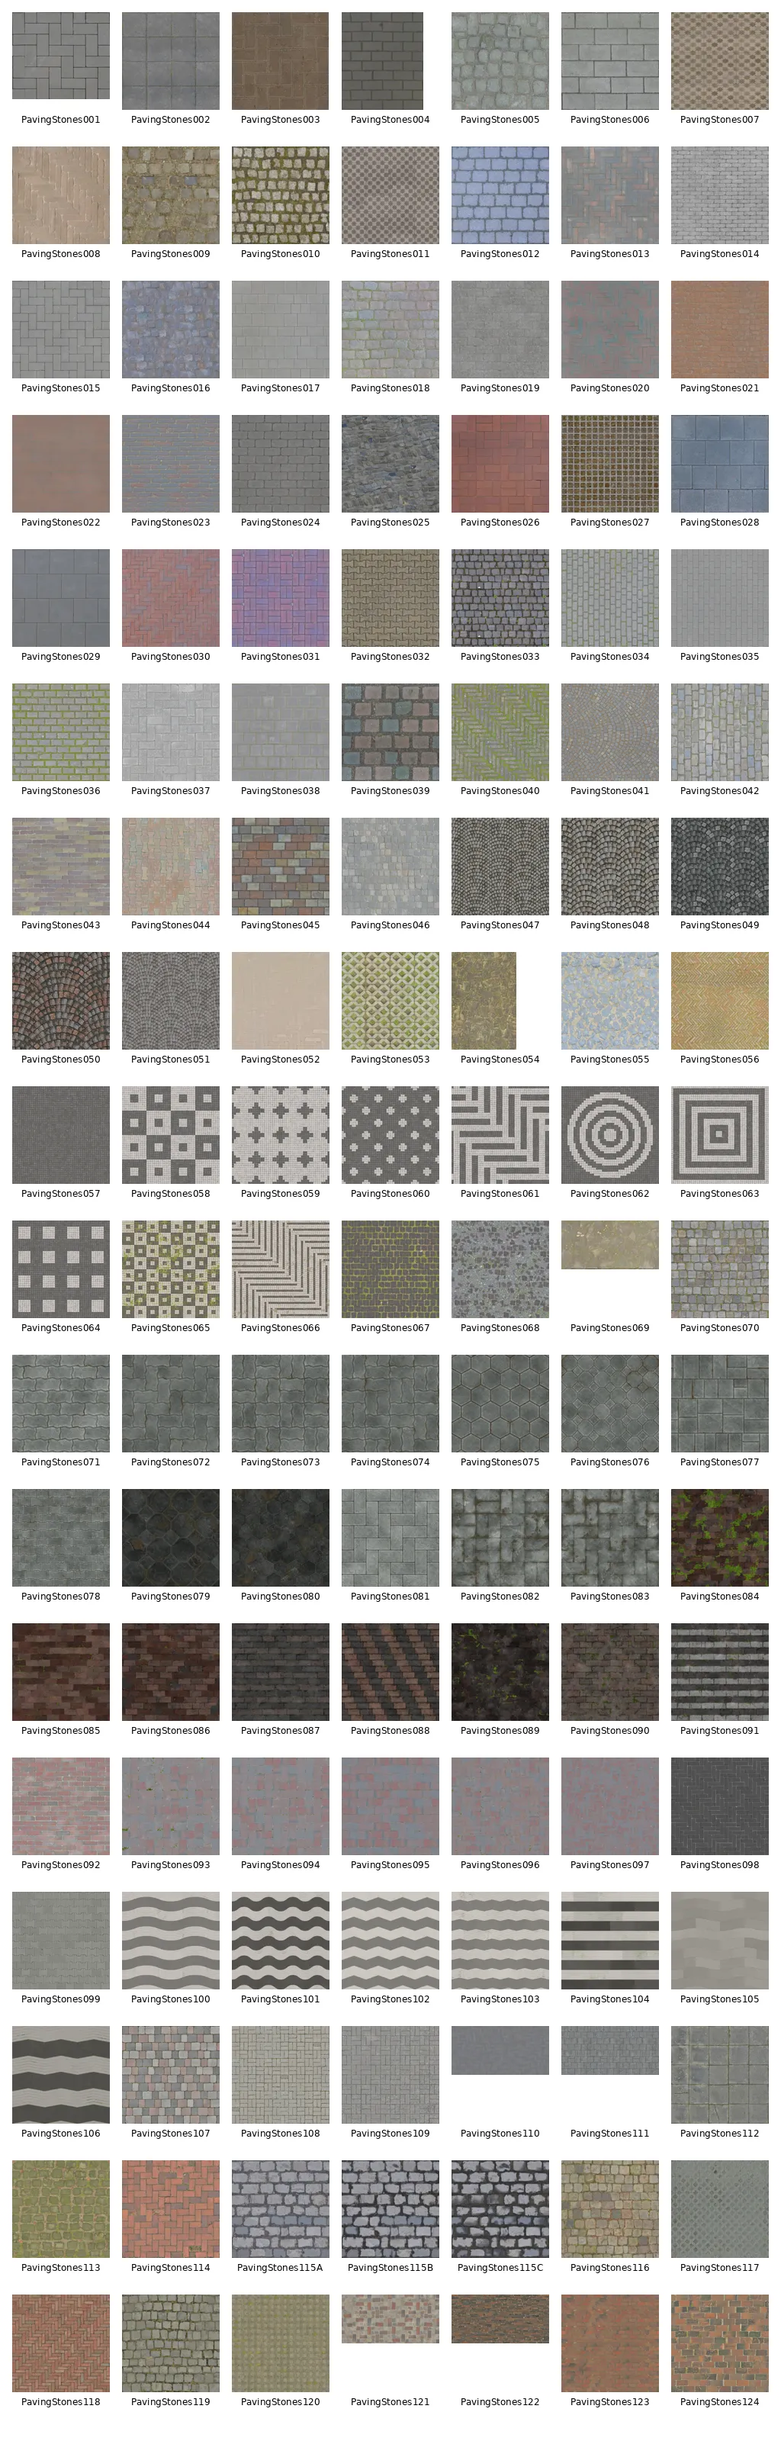
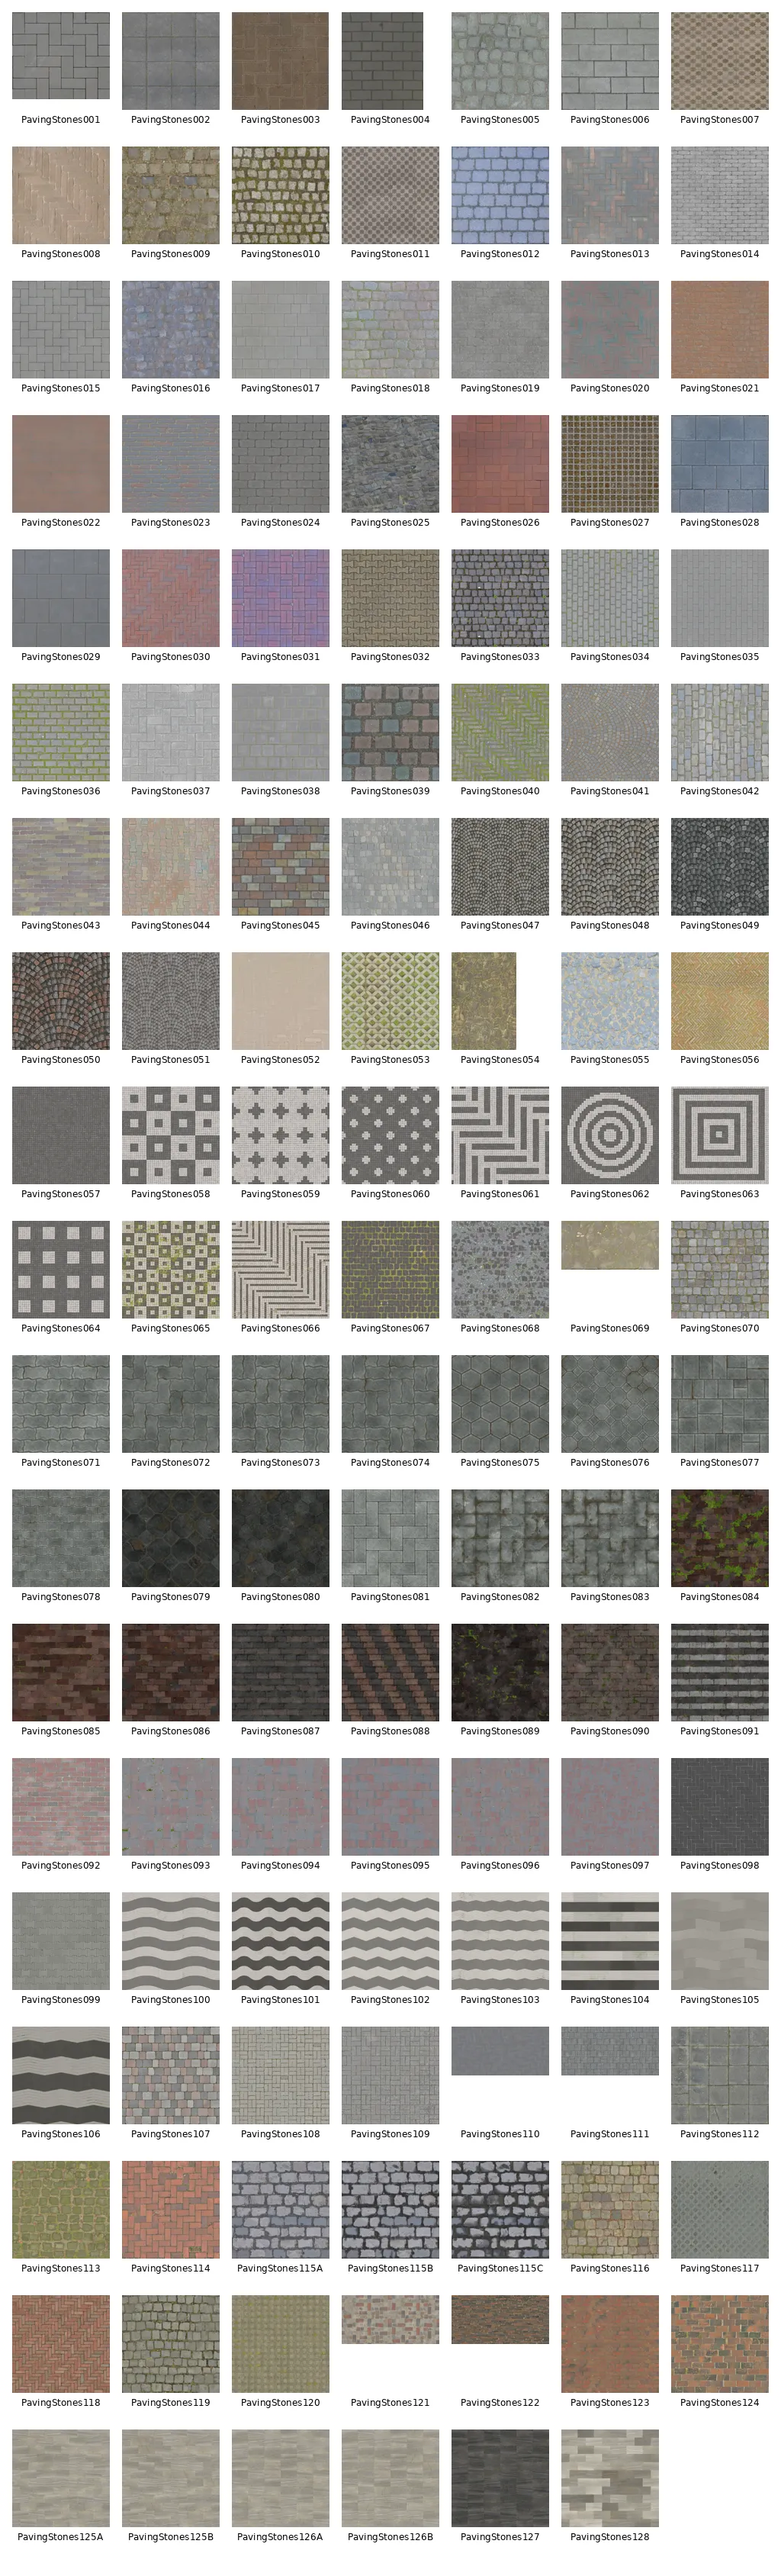
version: 1.2

diff --git a/build.py b/build.py
@@ -14,7 +14,7 @@ from PIL import Image, ImageOps
 from excluded_categories import EXCLUDED_CATEGORIES
 from make_preview import make_preview
 
-VERSION = "1.1"
+VERSION = "1.2"
 
 SIZES = (1024, 512, 256)
 TOTAL_LIMIT = None
@@ -100,6 +100,7 @@ def fetch_catalog_data(options):
     """
     expire_after = 0 if options.no_json_cache else -1
     session = requests_cache.CachedSession("requests_cache", expire_after=expire_after)
+    session.remove_expired_responses()
     base_params = {
         "type": "Material",
         "include": "displayData,dimensionsData,downloadData",

diff --git a/README.md b/README.md
@@ -5,19 +5,19 @@ The texture are resized to 3 sizes, so you can choose quality.
 
 3 qualities available: 256, 512 and 1024 pixels width.
 
-Current version: 1.1<br>
-Total textures: 1120
+Current version: 1.2<br>
+Total textures: 1126
 
 ## Install
 
 Just download the .sh3t file you want and use the texture library import feature from Sweethome3D from "Furniture" menu.
 
 
-* [ambientcg_1024.sh3t](https://github.com/fabien-michel/sweethome3d-textures-ambientcg/raw/v1.1/ambientcg_1024.sh3t) - 172.6 MB
+* [ambientcg_1024.sh3t](https://github.com/fabien-michel/sweethome3d-textures-ambientcg/raw/v1.2/ambientcg_1024.sh3t) - 173.5 MB
 
-* [ambientcg_512.sh3t](https://github.com/fabien-michel/sweethome3d-textures-ambientcg/raw/v1.1/ambientcg_512.sh3t) - 45.3 MB
+* [ambientcg_512.sh3t](https://github.com/fabien-michel/sweethome3d-textures-ambientcg/raw/v1.2/ambientcg_512.sh3t) - 45.5 MB
 
-* [ambientcg_256.sh3t](https://github.com/fabien-michel/sweethome3d-textures-ambientcg/raw/v1.1/ambientcg_256.sh3t) - 12.2 MB
+* [ambientcg_256.sh3t](https://github.com/fabien-michel/sweethome3d-textures-ambientcg/raw/v1.2/ambientcg_256.sh3t) - 12.3 MB
 
 
 ## Missing dimensions
@@ -58,205 +58,205 @@ The current code and content follow the same licence.
 
 ### Asphalt
 <picture>
-  <img alt="Preview of Asphalt" src="https://raw.githubusercontent.com/fabien-michel/sweethome3d-textures-ambientcg/v1.1/previews/Asphalt.webp">
+  <img alt="Preview of Asphalt" src="https://raw.githubusercontent.com/fabien-michel/sweethome3d-textures-ambientcg/v1.2/previews/Asphalt.webp">
 </picture>
 
 ### Bark
 <picture>
-  <img alt="Preview of Bark" src="https://raw.githubusercontent.com/fabien-michel/sweethome3d-textures-ambientcg/v1.1/previews/Bark.webp">
+  <img alt="Preview of Bark" src="https://raw.githubusercontent.com/fabien-michel/sweethome3d-textures-ambientcg/v1.2/previews/Bark.webp">
 </picture>
 
 ### Bricks
 <picture>
-  <img alt="Preview of Bricks" src="https://raw.githubusercontent.com/fabien-michel/sweethome3d-textures-ambientcg/v1.1/previews/Bricks.webp">
+  <img alt="Preview of Bricks" src="https://raw.githubusercontent.com/fabien-michel/sweethome3d-textures-ambientcg/v1.2/previews/Bricks.webp">
 </picture>
 
 ### Cardboard
 <picture>
-  <img alt="Preview of Cardboard" src="https://raw.githubusercontent.com/fabien-michel/sweethome3d-textures-ambientcg/v1.1/previews/Cardboard.webp">
+  <img alt="Preview of Cardboard" src="https://raw.githubusercontent.com/fabien-michel/sweethome3d-textures-ambientcg/v1.2/previews/Cardboard.webp">
 </picture>
 
 ### Carpet
 <picture>
-  <img alt="Preview of Carpet" src="https://raw.githubusercontent.com/fabien-michel/sweethome3d-textures-ambientcg/v1.1/previews/Carpet.webp">
+  <img alt="Preview of Carpet" src="https://raw.githubusercontent.com/fabien-michel/sweethome3d-textures-ambientcg/v1.2/previews/Carpet.webp">
 </picture>
 
 ### Chainmail
 <picture>
-  <img alt="Preview of Chainmail" src="https://raw.githubusercontent.com/fabien-michel/sweethome3d-textures-ambientcg/v1.1/previews/Chainmail.webp">
+  <img alt="Preview of Chainmail" src="https://raw.githubusercontent.com/fabien-michel/sweethome3d-textures-ambientcg/v1.2/previews/Chainmail.webp">
 </picture>
 
 ### Chipboard
 <picture>
-  <img alt="Preview of Chipboard" src="https://raw.githubusercontent.com/fabien-michel/sweethome3d-textures-ambientcg/v1.1/previews/Chipboard.webp">
+  <img alt="Preview of Chipboard" src="https://raw.githubusercontent.com/fabien-michel/sweethome3d-textures-ambientcg/v1.2/previews/Chipboard.webp">
 </picture>
 
 ### Clay
 <picture>
-  <img alt="Preview of Clay" src="https://raw.githubusercontent.com/fabien-michel/sweethome3d-textures-ambientcg/v1.1/previews/Clay.webp">
+  <img alt="Preview of Clay" src="https://raw.githubusercontent.com/fabien-michel/sweethome3d-textures-ambientcg/v1.2/previews/Clay.webp">
 </picture>
 
 ### Concrete
 <picture>
-  <img alt="Preview of Concrete" src="https://raw.githubusercontent.com/fabien-michel/sweethome3d-textures-ambientcg/v1.1/previews/Concrete.webp">
+  <img alt="Preview of Concrete" src="https://raw.githubusercontent.com/fabien-michel/sweethome3d-textures-ambientcg/v1.2/previews/Concrete.webp">
 </picture>
 
 ### Cork
 <picture>
-  <img alt="Preview of Cork" src="https://raw.githubusercontent.com/fabien-michel/sweethome3d-textures-ambientcg/v1.1/previews/Cork.webp">
+  <img alt="Preview of Cork" src="https://raw.githubusercontent.com/fabien-michel/sweethome3d-textures-ambientcg/v1.2/previews/Cork.webp">
 </picture>
 
 ### CorrugatedSteel
 <picture>
-  <img alt="Preview of CorrugatedSteel" src="https://raw.githubusercontent.com/fabien-michel/sweethome3d-textures-ambientcg/v1.1/previews/CorrugatedSteel.webp">
+  <img alt="Preview of CorrugatedSteel" src="https://raw.githubusercontent.com/fabien-michel/sweethome3d-textures-ambientcg/v1.2/previews/CorrugatedSteel.webp">
 </picture>
 
 ### DiamondPlate
 <picture>
-  <img alt="Preview of DiamondPlate" src="https://raw.githubusercontent.com/fabien-michel/sweethome3d-textures-ambientcg/v1.1/previews/DiamondPlate.webp">
+  <img alt="Preview of DiamondPlate" src="https://raw.githubusercontent.com/fabien-michel/sweethome3d-textures-ambientcg/v1.2/previews/DiamondPlate.webp">
 </picture>
 
 ### Fabric
 <picture>
-  <img alt="Preview of Fabric" src="https://raw.githubusercontent.com/fabien-michel/sweethome3d-textures-ambientcg/v1.1/previews/Fabric.webp">
+  <img alt="Preview of Fabric" src="https://raw.githubusercontent.com/fabien-michel/sweethome3d-textures-ambientcg/v1.2/previews/Fabric.webp">
 </picture>
 
 ### GlazedTerracotta
 <picture>
-  <img alt="Preview of GlazedTerracotta" src="https://raw.githubusercontent.com/fabien-michel/sweethome3d-textures-ambientcg/v1.1/previews/GlazedTerracotta.webp">
+  <img alt="Preview of GlazedTerracotta" src="https://raw.githubusercontent.com/fabien-michel/sweethome3d-textures-ambientcg/v1.2/previews/GlazedTerracotta.webp">
 </picture>
 
 ### Grass
 <picture>
-  <img alt="Preview of Grass" src="https://raw.githubusercontent.com/fabien-michel/sweethome3d-textures-ambientcg/v1.1/previews/Grass.webp">
+  <img alt="Preview of Grass" src="https://raw.githubusercontent.com/fabien-michel/sweethome3d-textures-ambientcg/v1.2/previews/Grass.webp">
 </picture>
 
 ### Gravel
 <picture>
-  <img alt="Preview of Gravel" src="https://raw.githubusercontent.com/fabien-michel/sweethome3d-textures-ambientcg/v1.1/previews/Gravel.webp">
+  <img alt="Preview of Gravel" src="https://raw.githubusercontent.com/fabien-michel/sweethome3d-textures-ambientcg/v1.2/previews/Gravel.webp">
 </picture>
 
 ### Ground
 <picture>
-  <img alt="Preview of Ground" src="https://raw.githubusercontent.com/fabien-michel/sweethome3d-textures-ambientcg/v1.1/previews/Ground.webp">
+  <img alt="Preview of Ground" src="https://raw.githubusercontent.com/fabien-michel/sweethome3d-textures-ambientcg/v1.2/previews/Ground.webp">
 </picture>
 
 ### Marble
 <picture>
-  <img alt="Preview of Marble" src="https://raw.githubusercontent.com/fabien-michel/sweethome3d-textures-ambientcg/v1.1/previews/Marble.webp">
+  <img alt="Preview of Marble" src="https://raw.githubusercontent.com/fabien-michel/sweethome3d-textures-ambientcg/v1.2/previews/Marble.webp">
 </picture>
 
 ### Metal
 <picture>
-  <img alt="Preview of Metal" src="https://raw.githubusercontent.com/fabien-michel/sweethome3d-textures-ambientcg/v1.1/previews/Metal.webp">
+  <img alt="Preview of Metal" src="https://raw.githubusercontent.com/fabien-michel/sweethome3d-textures-ambientcg/v1.2/previews/Metal.webp">
 </picture>
 
 ### Moss
 <picture>
-  <img alt="Preview of Moss" src="https://raw.githubusercontent.com/fabien-michel/sweethome3d-textures-ambientcg/v1.1/previews/Moss.webp">
+  <img alt="Preview of Moss" src="https://raw.githubusercontent.com/fabien-michel/sweethome3d-textures-ambientcg/v1.2/previews/Moss.webp">
 </picture>
 
 ### OfficeCeiling
 <picture>
-  <img alt="Preview of OfficeCeiling" src="https://raw.githubusercontent.com/fabien-michel/sweethome3d-textures-ambientcg/v1.1/previews/OfficeCeiling.webp">
+  <img alt="Preview of OfficeCeiling" src="https://raw.githubusercontent.com/fabien-michel/sweethome3d-textures-ambientcg/v1.2/previews/OfficeCeiling.webp">
 </picture>
 
 ### Paint
 <picture>
-  <img alt="Preview of Paint" src="https://raw.githubusercontent.com/fabien-michel/sweethome3d-textures-ambientcg/v1.1/previews/Paint.webp">
+  <img alt="Preview of Paint" src="https://raw.githubusercontent.com/fabien-michel/sweethome3d-textures-ambientcg/v1.2/previews/Paint.webp">
 </picture>
 
 ### Paper
 <picture>
-  <img alt="Preview of Paper" src="https://raw.githubusercontent.com/fabien-michel/sweethome3d-textures-ambientcg/v1.1/previews/Paper.webp">
+  <img alt="Preview of Paper" src="https://raw.githubusercontent.com/fabien-michel/sweethome3d-textures-ambientcg/v1.2/previews/Paper.webp">
 </picture>
 
 ### PavingStones
 <picture>
-  <img alt="Preview of PavingStones" src="https://raw.githubusercontent.com/fabien-michel/sweethome3d-textures-ambientcg/v1.1/previews/PavingStones.webp">
+  <img alt="Preview of PavingStones" src="https://raw.githubusercontent.com/fabien-michel/sweethome3d-textures-ambientcg/v1.2/previews/PavingStones.webp">
 </picture>
 
 ### Planks
 <picture>
-  <img alt="Preview of Planks" src="https://raw.githubusercontent.com/fabien-michel/sweethome3d-textures-ambientcg/v1.1/previews/Planks.webp">
+  <img alt="Preview of Planks" src="https://raw.githubusercontent.com/fabien-michel/sweethome3d-textures-ambientcg/v1.2/previews/Planks.webp">
 </picture>
 
 ### Plaster
 <picture>
-  <img alt="Preview of Plaster" src="https://raw.githubusercontent.com/fabien-michel/sweethome3d-textures-ambientcg/v1.1/previews/Plaster.webp">
+  <img alt="Preview of Plaster" src="https://raw.githubusercontent.com/fabien-michel/sweethome3d-textures-ambientcg/v1.2/previews/Plaster.webp">
 </picture>
 
 ### Plastic
 <picture>
-  <img alt="Preview of Plastic" src="https://raw.githubusercontent.com/fabien-michel/sweethome3d-textures-ambientcg/v1.1/previews/Plastic.webp">
+  <img alt="Preview of Plastic" src="https://raw.githubusercontent.com/fabien-michel/sweethome3d-textures-ambientcg/v1.2/previews/Plastic.webp">
 </picture>
 
 ### Porcelain
 <picture>
-  <img alt="Preview of Porcelain" src="https://raw.githubusercontent.com/fabien-michel/sweethome3d-textures-ambientcg/v1.1/previews/Porcelain.webp">
+  <img alt="Preview of Porcelain" src="https://raw.githubusercontent.com/fabien-michel/sweethome3d-textures-ambientcg/v1.2/previews/Porcelain.webp">
 </picture>
 
 ### Road
 <picture>
-  <img alt="Preview of Road" src="https://raw.githubusercontent.com/fabien-michel/sweethome3d-textures-ambientcg/v1.1/previews/Road.webp">
+  <img alt="Preview of Road" src="https://raw.githubusercontent.com/fabien-michel/sweethome3d-textures-ambientcg/v1.2/previews/Road.webp">
 </picture>
 
 ### Rock
 <picture>
-  <img alt="Preview of Rock" src="https://raw.githubusercontent.com/fabien-michel/sweethome3d-textures-ambientcg/v1.1/previews/Rock.webp">
+  <img alt="Preview of Rock" src="https://raw.githubusercontent.com/fabien-michel/sweethome3d-textures-ambientcg/v1.2/previews/Rock.webp">
 </picture>
 
 ### Rocks
 <picture>
-  <img alt="Preview of Rocks" src="https://raw.githubusercontent.com/fabien-michel/sweethome3d-textures-ambientcg/v1.1/previews/Rocks.webp">
+  <img alt="Preview of Rocks" src="https://raw.githubusercontent.com/fabien-michel/sweethome3d-textures-ambientcg/v1.2/previews/Rocks.webp">
 </picture>
 
 ### RoofingTiles
 <picture>
-  <img alt="Preview of RoofingTiles" src="https://raw.githubusercontent.com/fabien-michel/sweethome3d-textures-ambientcg/v1.1/previews/RoofingTiles.webp">
+  <img alt="Preview of RoofingTiles" src="https://raw.githubusercontent.com/fabien-michel/sweethome3d-textures-ambientcg/v1.2/previews/RoofingTiles.webp">
 </picture>
 
 ### Rust
 <picture>
-  <img alt="Preview of Rust" src="https://raw.githubusercontent.com/fabien-michel/sweethome3d-textures-ambientcg/v1.1/previews/Rust.webp">
+  <img alt="Preview of Rust" src="https://raw.githubusercontent.com/fabien-michel/sweethome3d-textures-ambientcg/v1.2/previews/Rust.webp">
 </picture>
 
 ### Snow
 <picture>
-  <img alt="Preview of Snow" src="https://raw.githubusercontent.com/fabien-michel/sweethome3d-textures-ambientcg/v1.1/previews/Snow.webp">
+  <img alt="Preview of Snow" src="https://raw.githubusercontent.com/fabien-michel/sweethome3d-textures-ambientcg/v1.2/previews/Snow.webp">
 </picture>
 
 ### SolarPanel
 <picture>
-  <img alt="Preview of SolarPanel" src="https://raw.githubusercontent.com/fabien-michel/sweethome3d-textures-ambientcg/v1.1/previews/SolarPanel.webp">
+  <img alt="Preview of SolarPanel" src="https://raw.githubusercontent.com/fabien-michel/sweethome3d-textures-ambientcg/v1.2/previews/SolarPanel.webp">
 </picture>
 
 ### Terrazzo
 <picture>
-  <img alt="Preview of Terrazzo" src="https://raw.githubusercontent.com/fabien-michel/sweethome3d-textures-ambientcg/v1.1/previews/Terrazzo.webp">
+  <img alt="Preview of Terrazzo" src="https://raw.githubusercontent.com/fabien-michel/sweethome3d-textures-ambientcg/v1.2/previews/Terrazzo.webp">
 </picture>
 
 ### Tiles
 <picture>
-  <img alt="Preview of Tiles" src="https://raw.githubusercontent.com/fabien-michel/sweethome3d-textures-ambientcg/v1.1/previews/Tiles.webp">
+  <img alt="Preview of Tiles" src="https://raw.githubusercontent.com/fabien-michel/sweethome3d-textures-ambientcg/v1.2/previews/Tiles.webp">
 </picture>
 
 ### Wood
 <picture>
-  <img alt="Preview of Wood" src="https://raw.githubusercontent.com/fabien-michel/sweethome3d-textures-ambientcg/v1.1/previews/Wood.webp">
+  <img alt="Preview of Wood" src="https://raw.githubusercontent.com/fabien-michel/sweethome3d-textures-ambientcg/v1.2/previews/Wood.webp">
 </picture>
 
 ### WoodChips
 <picture>
-  <img alt="Preview of WoodChips" src="https://raw.githubusercontent.com/fabien-michel/sweethome3d-textures-ambientcg/v1.1/previews/WoodChips.webp">
+  <img alt="Preview of WoodChips" src="https://raw.githubusercontent.com/fabien-michel/sweethome3d-textures-ambientcg/v1.2/previews/WoodChips.webp">
 </picture>
 
 ### WoodFloor
 <picture>
-  <img alt="Preview of WoodFloor" src="https://raw.githubusercontent.com/fabien-michel/sweethome3d-textures-ambientcg/v1.1/previews/WoodFloor.webp">
+  <img alt="Preview of WoodFloor" src="https://raw.githubusercontent.com/fabien-michel/sweethome3d-textures-ambientcg/v1.2/previews/WoodFloor.webp">
 </picture>
 
 ### WoodSiding
 <picture>
-  <img alt="Preview of WoodSiding" src="https://raw.githubusercontent.com/fabien-michel/sweethome3d-textures-ambientcg/v1.1/previews/WoodSiding.webp">
+  <img alt="Preview of WoodSiding" src="https://raw.githubusercontent.com/fabien-michel/sweethome3d-textures-ambientcg/v1.2/previews/WoodSiding.webp">
 </picture>
